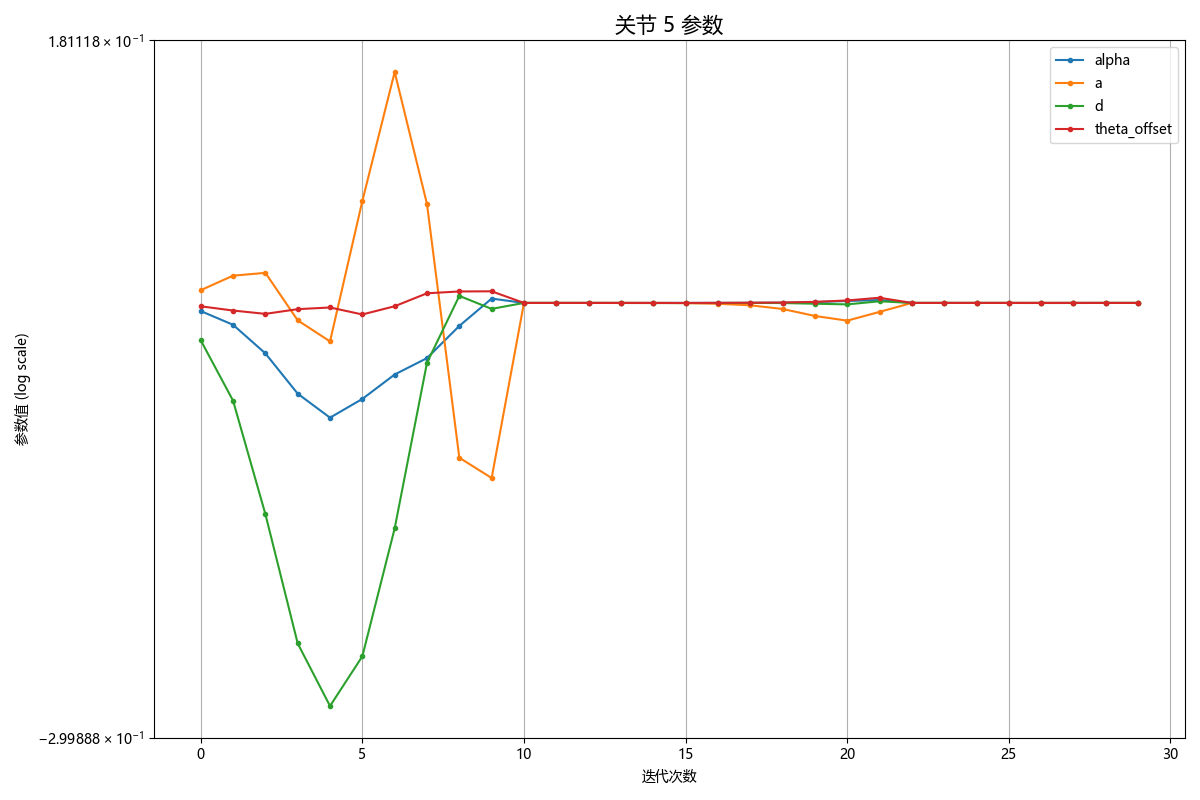
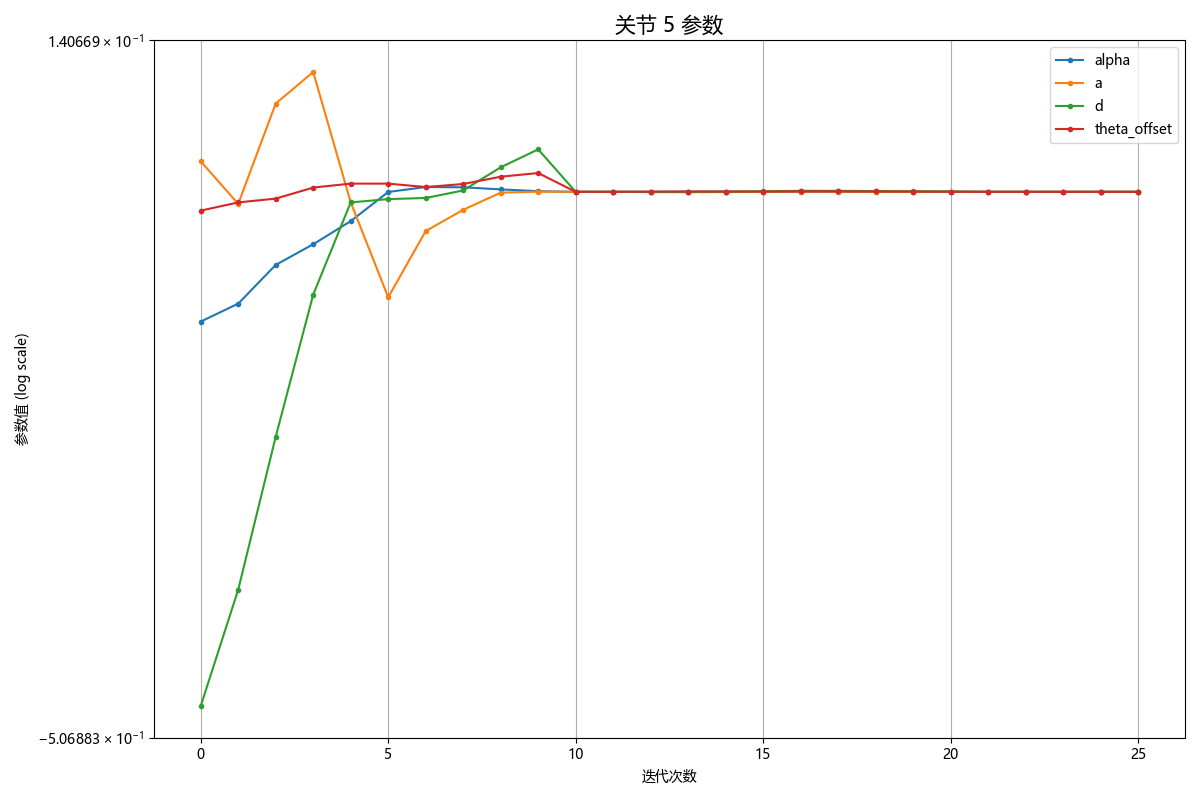
增加对theta的约束

diff --git a/lm_optimize_pytorch.py b/lm_optimize_pytorch.py
@@ -330,7 +330,7 @@ def save_delta_to_csv(delta, iteration, opt_indices, csv_file, lambda_val=None, 
         print(f"保存delta值到CSV文件时出错: {e}")
 
 #! LM优化
-def optimize_dh_parameters(initial_params, max_iterations=50, lambda_init=0.01, tol=1e-10, opt_indices=None, csv_file=None, alt_iteration=None, opt_step=None):
+def optimize_dh_parameters(initial_params, max_iterations=50, lambda_init=0.01, tol=1e-10, opt_indices=None, max_theta_delta_rad=None, csv_file=None, alt_iteration=None, opt_step=None):
     params = torch.tensor(initial_params, dtype=torch.float64, requires_grad=False)
     #* 初始化阻尼因子和加速因子
     lambda_val = lambda_init
@@ -403,6 +403,16 @@ def optimize_dh_parameters(initial_params, max_iterations=50, lambda_init=0.01, 
                     print(f"阻尼因子超过阈值，提前结束优化")
                     return params.numpy()
                 continue
+
+            # 应用参数更新限制（针对theta角）
+            if max_theta_delta_rad is not None:
+                theta_param_indices_in_full_params = [3, 7, 11, 15, 19, 23]  # DH中theta_offset的索引
+                for i, param_idx_in_full_params_np_val in enumerate(opt_indices):
+                    param_idx_in_full_params = int(param_idx_in_full_params_np_val)  # 将numpy类型转换为int
+                    if param_idx_in_full_params in theta_param_indices_in_full_params:
+                        current_delta_val = delta[i]
+                        # 将特定参数的更新量delta[i]限制在 [-max_theta_delta_rad, +max_theta_delta_rad] 范围内
+                        delta[i] = torch.clamp(current_delta_val, -max_theta_delta_rad, max_theta_delta_rad)
 
             #* 尝试更新
             params_new = params.clone()
@@ -505,7 +515,7 @@ def optimize_dh_parameters(initial_params, max_iterations=50, lambda_init=0.01, 
 #! 交替优化函数
 def alternate_optimize_parameters(initial_params, max_alt_iterations=10, convergence_tol=1e-5, 
                                  max_sub_iterations_group1=30, max_sub_iterations_group2=30, # 修改：为两组分别设置迭代次数
-                                 lambda_init_group1=0.01, lambda_init_group2=0.001):
+                                 lambda_init_group1=0.01, lambda_init_group2=0.001, max_theta_delta_rad_for_sub_opt=None):
     print("\n" + "="*60)
     print(" "*20 + "开始交替优化")
     print("="*60)
@@ -577,6 +587,7 @@ def alternate_optimize_parameters(initial_params, max_alt_iterations=10, converg
             max_iterations=max_sub_iterations_group1, # 修改：使用第一组的迭代次数
             lambda_init=lambda_init_group1, 
             opt_indices=opt_indices_group1,
+            max_theta_delta_rad=max_theta_delta_rad_for_sub_opt,
             csv_file=csv_file,
             alt_iteration=alt_iteration+1,
             opt_step=1
@@ -593,6 +604,7 @@ def alternate_optimize_parameters(initial_params, max_alt_iterations=10, converg
             max_iterations=max_sub_iterations_group2, # 修改：使用第二组的迭代次数
             lambda_init=lambda_init_group2, 
             opt_indices=opt_indices_group2,
+            max_theta_delta_rad=max_theta_delta_rad_for_sub_opt,
             csv_file=csv_file,
             alt_iteration=alt_iteration+1,
             opt_step=2
@@ -681,6 +693,11 @@ if __name__ == '__main__':
     print(f"固定参数索引 ({len(ALL_FIXED_INDICES)}): {ALL_FIXED_INDICES}")
     print(f"可优化参数索引 ({len(opt_indices)}): {opt_indices}")
     
+    # 定义theta参数单步最大变化量 (1度)
+    max_theta_change_degrees = 1.0
+    max_theta_change_radians = np.deg2rad(max_theta_change_degrees)
+    print(f"Theta参数单步最大变化量: {max_theta_change_degrees}度 ({max_theta_change_radians:.6f}弧度)")
+    
     # 使用交替优化方法
     optimized_params = alternate_optimize_parameters(
         initial_params, 
@@ -690,6 +707,7 @@ if __name__ == '__main__':
         max_sub_iterations_group2=10, # 第二组子优化迭代次数 
         lambda_init_group1=2.0,   # 第一组参数初始阻尼因子
         lambda_init_group2=0.001,   # 第二组参数初始阻尼因子
+        max_theta_delta_rad_for_sub_opt=max_theta_change_radians  # 传递theta变化限制
     )
 
     # 保存优化结果 
